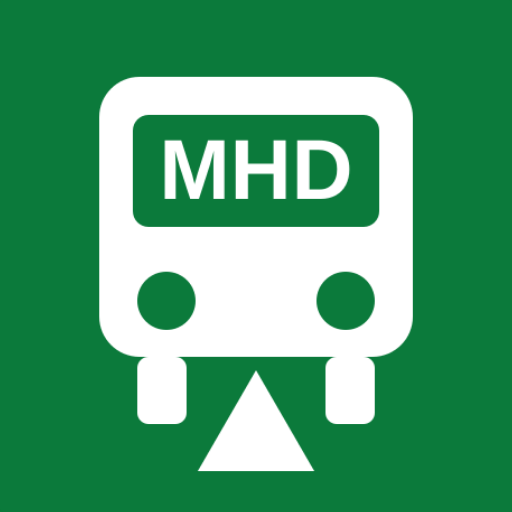
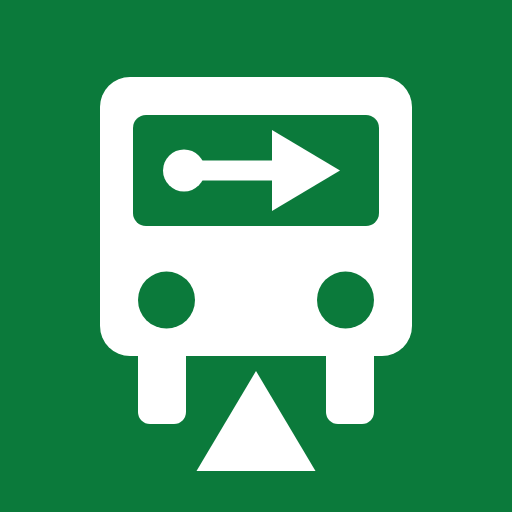
v1.7.4 – nový názov „Odkiaľ Kam – spoje v Prešove“ a ikona bez „MHD“
Google Play odmietol 1.7.3 pre zavádzajúci názov (pravidlá proti
odcudzeniu identity) a žiada opraviť názov alebo ikonu. Vlado zvolil:
najprv ikona a grafika bez „MHD“, potom odoslať.

- Ikona: na tabuli autobusu je namiesto nápisu „MHD“ značka trasy
  odkiaľ → kam (zdroj store/ikona.svg); obchod aj appka (Android a iOS
  ju pri zostavení berú z mhd-app/icons/icon-512.png).
- Appka: hlavička „Odkiaľ Kam – spoje v Prešove“, názov okna, manifest,
  „Lístok na MHD v Prešove“, hlásenia „zastávka MHD v Prešove“; appka
  v jednom súbore a RELEASE.md s novým názvom.
- Obchod: hlavná grafika s podnadpisom „spoje v Prešove“, nové snímky
  1 a 6 z appky 1.7.4 (2–5 „MHD“ neobsahujú).
- Zásady súkromia, README a docs/GOOGLE-PLAY.md s novým názvom
  (aj s pôvodným, aby bolo jasné, že ide o tú istú appku).
- APP_VERSION 1.7.4, CHANGELOG. Funkcie a cestovné poriadky bez zmeny.

Claude-Session: https://claude.ai/code/session_011URYhp4YsHWL2CzPMnyWZ2

diff --git a/web/sukromie/index.html b/web/sukromie/index.html
@@ -4,7 +4,7 @@
 <meta charset="utf-8">
 <meta name="viewport" content="width=device-width, initial-scale=1">
 <title>Odkiaľ Kam — zásady ochrany súkromia</title>
-<meta name="description" content="Zásady ochrany osobných údajov aplikácie Odkiaľ Kam – MHD Prešov.">
+<meta name="description" content="Zásady ochrany osobných údajov aplikácie Odkiaľ Kam – spoje v Prešove.">
 <style>
   :root { --ink: #1a1a1a; --muted: #5b6370; --bg: #f4f6f4; --card: #fff; --line: #dde3dd; --accent: #0b7a3b; }
   @media (prefers-color-scheme: dark) {
@@ -28,7 +28,7 @@
 <main>
 <div class="card">
 <h1>Zásady ochrany súkromia</h1>
-<p class="muted">Aplikácia <b>Odkiaľ Kam – MHD Prešov</b> (Android, iOS, web) · platné od 2. 10. 2026 (verzia appky 1.6.1)</p>
+<p class="muted">Aplikácia <b>Odkiaľ Kam – spoje v Prešove</b> (do 17. 11. 2026 „Odkiaľ Kam – MHD Prešov“; Android, iOS, web) · platné od 2. 10. 2026 (verzia appky 1.6.1)</p>
 
 <h2>Kto aplikáciu prevádzkuje</h2>
 <p>BEDEKA, s.r.o., Hlavná 2894/47, 080 01 Prešov, Slovensko, IČO 47735511.<br>
@@ -113,7 +113,7 @@ na kúpu lístka alebo obchod s aplikáciami na kúpu lístka. Čo sa deje v nic
 
 <h2 lang="en">Privacy policy (English summary)</h2>
 <div lang="en">
-<p><b>Odkiaľ Kam – MHD Prešov</b> is an unofficial public-transport journey planner for Prešov, Slovakia, operated by
+<p><b>Odkiaľ Kam – trips in Prešov</b> (until 17 Nov 2026 “Odkiaľ Kam – MHD Prešov”) is an unofficial public-transport journey planner for Prešov, Slovakia, operated by
 BEDEKA, s.r.o., Hlavná 2894/47, 080 01 Prešov, Slovakia (contact: <a href="mailto:info@operatorsystem.sk">info@operatorsystem.sk</a>).</p>
 <ul>
   <li>We do not collect any personal data. No accounts, no ads, no analytics or tracking SDKs, no server of ours.</li>

diff --git a/mhd-app/index.html b/mhd-app/index.html
@@ -3,8 +3,8 @@
 <head>
   <meta charset="utf-8">
   <meta name="viewport" content="width=device-width, initial-scale=1, viewport-fit=cover">
-  <title>Odkiaľ Kam — MHD Prešov</title>
-  <meta name="description" content="Odkiaľ Kam — neoficiálny plánovač spojení MHD Prešov s prestupmi podľa verejných cestovných poriadkov.">
+  <title>Odkiaľ Kam — spoje v Prešove</title>
+  <meta name="description" content="Odkiaľ Kam — neoficiálny plánovač spojení MHD v Prešove s prestupmi podľa verejných cestovných poriadkov.">
   <meta name="theme-color" content="#0b7a3b">
   <link rel="manifest" href="manifest.webmanifest">
   <link rel="icon" href="icons/icon-192.png">
@@ -20,7 +20,7 @@
 </head>
 <body>
   <header class="top">
-    <h1>Odkiaľ Kam <span class="app-ver">MHD Prešov</span> <span id="appVer" class="app-ver"></span></h1>
+    <h1>Odkiaľ Kam <span class="app-ver">spoje v Prešove</span> <span id="appVer" class="app-ver"></span></h1>
     <span id="dataInfo" class="data-info" title="Platnosť cestovných poriadkov"></span>
     <button id="exitBtn" class="exit-btn" type="button" aria-label="Ukončiť aplikáciu" title="Ukončiť aplikáciu" hidden>
       <svg viewBox="0 0 24 24" aria-hidden="true"><path d="M12 3v9" /><path d="M6.3 6.8a8 8 0 1 0 11.4 0" /></svg>
@@ -153,7 +153,7 @@
   <div id="tktDlg" class="dlg" hidden role="dialog" aria-modal="true" aria-labelledby="tktTitle">
     <div class="dlg-box tkt">
       <div class="tkt-head">
-        <h2 id="tktTitle">🎫 Lístok MHD Prešov</h2>
+        <h2 id="tktTitle">🎫 Lístok na MHD v Prešove</h2>
         <button id="tktClose" class="trip-close" type="button" aria-label="Zavrieť">✕</button>
       </div>
       <p id="tktRec" class="tkt-rec" hidden></p>

diff --git a/mhd-app/app.js b/mhd-app/app.js
@@ -1,9 +1,9 @@
-// MHD Prešov — plánovač spojení nad oficiálnymi GTFS dátami DPMP.
+// Odkiaľ Kam — plánovač spojení MHD v Prešove nad oficiálnymi GTFS dátami DPMP.
 import { Raptor, planJourneys, leaveTime, totalWalk, walkOnlySecs } from './raptor.js';
 
 // Verzia aplikácie — zobrazuje sa v názve; build-release.mjs a workflowy
 // ju kontrolujú, takže nová verzia = zmeniť tu + zavolať build s tým istým číslom.
-const APP_VERSION = '1.7.3';
+const APP_VERSION = '1.7.4';
 
 const $ = (id) => document.getElementById(id);
 const statusEl = $('status');
@@ -1972,9 +1972,9 @@ function planFromHere(reason) {
   } else {
     t.phase = 'error';
     t.error = !fromStops.size
-      ? 'V okolí 1,5 km nie je žiadna zastávka MHD Prešov.'
+      ? 'V okolí 1,5 km nie je žiadna zastávka MHD v Prešove.'
       : !toStops.size
-        ? 'Pri cieli (do 1,5 km) nie je žiadna zastávka MHD Prešov.'
+        ? 'Pri cieli (do 1,5 km) nie je žiadna zastávka MHD v Prešove.'
         : 'Na dnes sa už nenašlo žiadne spojenie do cieľa. Skús neskôr alebo iný cieľ.';
   }
   drawTripJourney();
@@ -2821,7 +2821,7 @@ function fillEmptyWhen() {
 // ── inicializácia ────────────────────────────────────────────────────
 async function main() {
   $('appVer').textContent = `v${APP_VERSION}`;
-  document.title = `Odkiaľ Kam v${APP_VERSION} — MHD Prešov`;
+  document.title = `Odkiaľ Kam v${APP_VERSION} — spoje v Prešove`;
   const now = nowInSk();
   $('dateInput').value = now.date;
   $('timeInput').value = now.time;

diff --git a/docs/GOOGLE-PLAY.md b/docs/GOOGLE-PLAY.md
@@ -6,7 +6,7 @@ Stav k 5. 10. 2026 14:50 (súhrn z Play Console). Neobsahuje žiadne heslá ani 
 | Položka | Hodnota |
 |---|---|
 | Vývojár | BEDEKA, s.r.o. (developer ID 9184503168027888643) |
-| Aplikácia | Odkiaľ Kam – MHD Prešov (app ID 4973310957021774926) |
+| Aplikácia | Odkiaľ Kam – spoje v Prešove, do 17. 11. 2026 „Odkiaľ Kam – MHD Prešov“ (app ID 4973310957021774926) |
 | Balíček | `sk.operatorsystem.mhdpresov` (nemeniteľný) |
 | Play App Signing | zapnuté – podpisový kľúč spravuje Google; náš keystore (secrets `ANDROID_KEYSTORE_*`) je **upload kľúč** |
 | Interné testovanie | aktívne od 1.6.1; posledná 1.7.3 = 261102542 (automaticky 2. 11. 2026; 1.7.2 = 261014405, 1.7.1 = 261014345 a 1.7.0 = 261014304 14. 10.; 1.6.9 8. 10.), zoznam „Interní testeri“ |

diff --git a/store/ZAZNAM-V-OBCHODE.md b/store/ZAZNAM-V-OBCHODE.md
@@ -84,6 +84,8 @@ Developed by BEDEKA, s.r.o., Prešov, Slovakia.
 
 Snímky použiť pre slovenčinu aj angličtinu.
 
+Od 1.7.4 (18. 11. 2026) sú ikona, hlavná grafika a snímky 1 a 6 bez nápisu „MHD“: na tabuli autobusu je namiesto „MHD“ značka trasy odkiaľ → kam (zdroj `ikona.svg`), v hlavnej grafike podnadpis „spoje v Prešove“, na snímkach appka 1.7.4 s hlavičkou „Odkiaľ Kam – spoje v Prešove“ a „Lístok na MHD v Prešove“. Snímky 2–5 „MHD“ neobsahujú a ostávajú. Rovnakú ikonu dostane aj appka (Android a iOS ju berú z `mhd-app/icons/icon-512.png`).
+
 ## 4. Nastavenia obchodu
 - **Kategória:** Aplikácia → **Mapy a navigácia**
 - **Značky:** najbližšie z ponuky k „verejná doprava“, „navigácia“, „mapy“ (max. 5)

diff --git a/README.md b/README.md
@@ -1,4 +1,4 @@
-# Odkiaľ Kam – MHD Prešov
+# Odkiaľ Kam – spoje v Prešove
 
 Neoficiálny plánovač spojení mestskej hromadnej dopravy v Prešove pre
 Android, iOS a web. Hľadá spojenia s prestupmi podľa verejných cestovných
